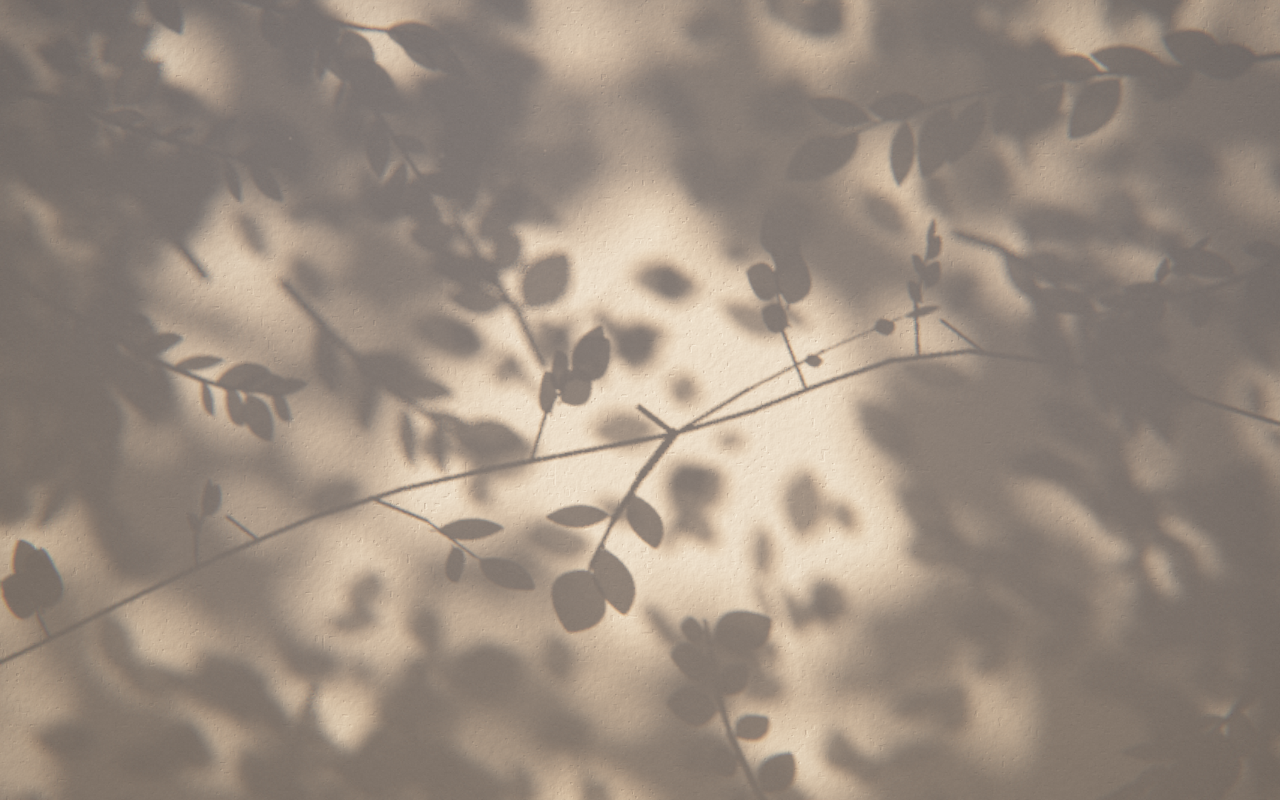
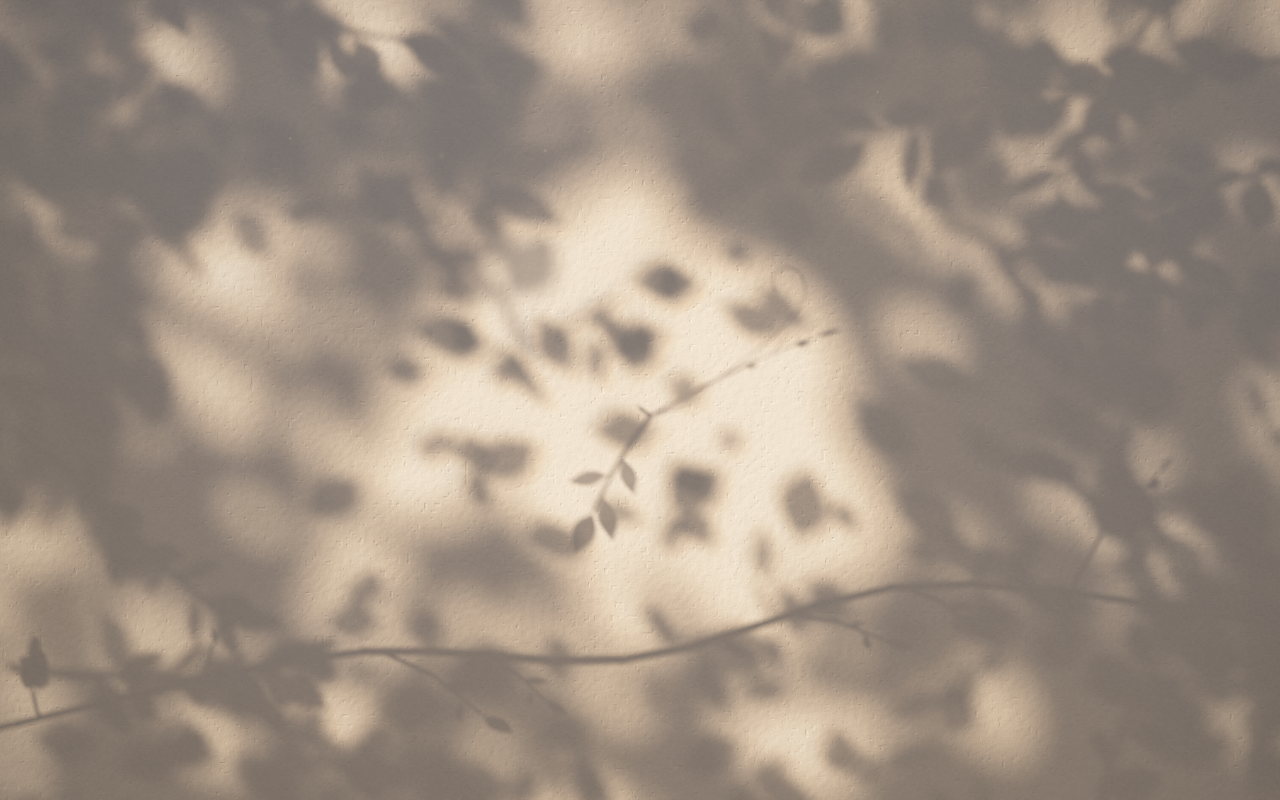
Komorebi Clock: final visual review fixes
From the third Codex/Fable round: the hour hand's leaves face the wall
squarely so they stay broad under a low sun; the near-wall layer uses a
fixed 16-tap pattern so the moving tendril doesn't sparkle; an open curl
and a slightly wider tendril; the vine a little lower so the minute hand's
tip never meets it; fringes visible again on the soft canopy light with red
to the outside; decoy leaves scaled with the clock; a slimmer wall stem.
Docs and store screenshots updated.

diff --git a/komorebi/extension/newtab.js b/komorebi/extension/newtab.js
@@ -309,11 +309,10 @@ float nearVis(){
   vec2 p = (gl_FragCoord.xy - uViewC.xy) / uViewC.z;
   vec2 uv = (p - uRectN.xy) * uRectN.zw;
   mat2 E = mat2(uSunN.xy * uSunN.z, vec2(-uSunN.y, uSunN.x));
-  float rot = hash12(gl_FragCoord.xy * .913) * 6.2832;
   vec2 sc = uRectN.zw;
-  float hd = 0.;
-  for (int i = 0; i < 10; i++) hd += texture2D(uNear, uv + E * ntap(float(i), 10., rot) * uRadN.x * sc).r;
-  return 1. - hd / 10.;
+  float hd = 0.;             /* a fixed tap pattern: thin moving lines don't sparkle across a per-pixel noise */
+  for (int i = 0; i < 16; i++) hd += texture2D(uNear, uv + E * ntap(float(i), 16., .7) * uRadN.x * sc).r;
+  return 1. - hd / 16.;
 }
 void main(){
   vec2 uv = gl_FragCoord.xy / uRes;
@@ -321,10 +320,10 @@ void main(){
 
   /* light splits a little at its edges: red one way, blue the other (along the light, and outward like a lens) */
   vec2 ca = fromC * uFx.z + uFx.xy;
-  float Sr = texture2D(uLight, uv + ca).r * 2.;
+  float Sr = texture2D(uLight, uv - ca).r * 2.;   /* red lands outward */
   vec3  Lg = texture2D(uLight, uv).rgb;
   float Sg = Lg.r * 2.;
-  float Sb = texture2D(uLight, uv - ca).r * 2.;
+  float Sb = texture2D(uLight, uv + ca).r * 2.;
   /* the split belongs to bright light: where it is dim the channels come back together */
   float fw = smoothstep(.5, 1., max(max(Sr, Sg), Sb));
   vec3 S = min(mix(vec3(Sg), vec3(Sr, Sg, Sb), fw), 1.45) * Lg.g * nearVis();   /* g: the branches' clean shadows */
@@ -998,7 +997,7 @@ let VINE = null;
 function buildVine() {
   const r = mulberry(909);
   /* the vine passes well below the clock, beyond the reach of the hour hand */
-  const pts = [[-halfW - 0.08, -0.40], [-halfW * 0.5, -0.31], [PIVOT.x - 0.04, PIVOT.y - 0.26], [halfW * 0.42, -0.21], [halfW + 0.08, -0.29]];
+  const pts = [[-halfW - 0.08, -0.40], [-halfW * 0.5, -0.31], [PIVOT.x - 0.04, PIVOT.y - 0.30], [halfW * 0.42, -0.21], [halfW + 0.08, -0.29]];
   let uk = 0.5, best = 1e9;
   for (let i = 0; i <= 400; i++) {
     const q = catmull(pts, i / 400), d = Math.hypot(q[0] - PIVOT.x + 0.02, q[1] - PIVOT.y);
@@ -1042,7 +1041,7 @@ function emitVine(t) {
       const s = 0.35 + 0.65 * (k + 1) / tw.nl;
       const p = [b[0] + (e[0] - b[0]) * s, b[1] + (e[1] - b[1]) * s, b[2] + 0.012 * s];
       const side = k === tw.nl - 1 ? 0 : (k % 2 ? 1 : -1) * tw.side;
-      const ll = (tw.big ? 0.052 : 0.040) * (0.85 + 0.3 * ((k * 0.37 + tw.ph) % 1));   /* smaller than the hour hand's leaves */
+      const ll = (tw.big ? 0.036 : 0.028) * (0.85 + 0.3 * ((k * 0.37 + tw.ph) % 1));   /* smaller than the hour hand's leaves */
       emitLeaf3D(p, a + side * 0.72 + fl * 0.12 * sn1(t * 1.25 + tw.ph + k), 0.25 * (side || 0.6), ll, tw.big ? 1.1 : 0.85,
                  0.3 * (side || 1) + fl * 0.55 * sn1(t * (0.55 + 0.08 * k) + tw.ph * 1.7), 0.96, tw.ph * 0.173 + k * 0.29);
     }
@@ -1057,14 +1056,14 @@ function emitTendril(frac, len, t, px) {
   for (let i = 0; i < straight; i++) {
     const f = (i + 1) / straight, w = len * (0.07 * Math.sin(f * 3.1) + 0.02 * Math.sin(f * 6.5 + 1.3));
     const q = [PIVOT.x + dx * L0 * (i + 1) + nx * w, PIVOT.y + dy * L0 * (i + 1) + ny * w, Z0 + 0.018 * f];
-    emitSeg(p, q, Math.max(0.0012 - 0.0003 * f, 0.9 * px), 1); p = q;
+    emitSeg(p, q, Math.max(0.0012 - 0.0003 * f, 1.0 * px), 1); p = q;
   }
   /* the curl: short steps turning ever tighter */
   let a = Math.atan2(dy, dx), step = len * 0.05;
-  for (let i = 0; i < 20; i++) {
-    a += 0.18 + 0.03 * i; step *= 0.94;
+  for (let i = 0; i < 16; i++) {
+    a += 0.16 + 0.016 * i; step *= 0.955;      /* an open curl, not a tight knot */
     const q = [p[0] + Math.cos(a) * step, p[1] + Math.sin(a) * step, p[2] + 0.001];
-    emitSeg(p, q, Math.max(0.0009, 0.8 * px), 1); p = q;
+    emitSeg(p, q, Math.max(0.0009, 0.9 * px), 1); p = q;
   }
 }
 
@@ -1172,7 +1171,9 @@ function handFracs() {
   const sec = d.getSeconds() + d.getMilliseconds() / 1000;      /* the tendril always follows the real seconds */
   return { h: ((hh % 12) + mm / 60 + ss / 3600) / 12, m: (mm + ss / 60) / 60, s: sec / 60 };
 }
-function emitHand(frac, len, bend, lift, th0, th1, leaves, t, sway, seed, scale) {
+function emitHand(frac, len, bend, lift, th0, th1, leaves, t, sway, seed, scale, flat) {
+  /* flat: how squarely the leaves face the wall (the hour hand's broad leaves must read as broad at any sun) */
+  const tilt = flat ? 0.12 : 0.28, turn = flat ? 0.12 : 0.35, flutterTurn = flat ? 0.3 : 0.55;
   const th = frac * Math.PI * 2 + sway;
   const dx = Math.sin(th), dy = Math.cos(th), nx = dy, ny = -dx;     /* 12 o'clock is up, clockwise */
   const K = [PIVOT.x, PIVOT.y, Z0];
@@ -1188,13 +1189,13 @@ function emitHand(frac, len, bend, lift, th0, th1, leaves, t, sway, seed, scale)
     const ll = ll0 * scale, base = at(sAt), T = tan(sAt), ph = seed + i * 7.31;
     let a = Math.atan2(T[1], T[0]) + side * off;
     a += fl * (0.14 * sn1(t * (1.1 + i * 0.21) + ph) + 0.04 * sn1(t * 1.9 + ph * 2.3));
-    const tz = 0.28 * (side || 0.6) + 0.1 * sn1(t * 0.4 + ph);      /* tips lean off the wall, or toward it */
+    const tz = tilt * (side || 0.6) + 0.1 * sn1(t * 0.4 + ph);      /* tips lean off the wall, or toward it */
     let Ld = [Math.cos(a), Math.sin(a), tz];
     const n0 = Math.hypot(Ld[0], Ld[1], Ld[2]); Ld = Ld.map(x => x / n0);
     /* the blade faces the wall, turned about its midrib by the breeze */
     let nr = [-Ld[2] * Ld[0], -Ld[2] * Ld[1], 1 - Ld[2] * Ld[2]];
     const nn = Math.hypot(nr[0], nr[1], nr[2]) || 1; nr = nr.map(x => x / nn);
-    nr = rotAbout(nr, Ld, 0.35 * (side || 1) + fl * 0.55 * sn1(t * (0.6 + i * 0.13) + ph * 1.7) + 0.2 * sn1(t * 0.2 + ph));
+    nr = rotAbout(nr, Ld, turn * (side || 1) + fl * flutterTurn * sn1(t * (0.6 + i * 0.13) + ph * 1.7) + 0.2 * sn1(t * 0.2 + ph));
     const Wd = [Ld[1] * nr[2] - Ld[2] * nr[1], Ld[2] * nr[0] - Ld[0] * nr[2], Ld[0] * nr[1] - Ld[1] * nr[0]];
     const hw = ll * 0.30 * wf;
     emitLeaf(base, Ld.map(x => x * ll * 1.1), Wd.map(x => x * hw), 0.96, 0.22 + 0.01 * i);   /* a shape with a pointed tip */
@@ -1318,9 +1319,9 @@ function frame(now) {
   const Rh = R * 0.7;                          /* the sprig is smaller than the clearing it sits in */
   const fr = handFracs();
   const sw = wind.mid.x * 1.1 + 0.6 * wind.far.x;
-  emitHand(fr.h, Rh * 0.62, 0.05, 0.010, 0.0040, 0.0026, HOUR_LEAVES, wt, sw * 0.8, 3.1, Rh / 0.31);
+  emitHand(fr.h, Rh * 0.62, 0.05, 0.010, 0.0040, 0.0026, HOUR_LEAVES, wt, sw * 0.8, 3.1, Rh / 0.31, true);
   emitHand(fr.m, Rh, -0.035, 0.016, 0.0026, 0.0012, MIN_LEAVES, wt, sw, 11.7, Rh / 0.31);
-  emitSeg([PIVOT.x, PIVOT.y, 0], [PIVOT.x, PIVOT.y, Z0], 0.0038, 1);    /* the short stem: its shadow is only a small knot */
+  emitSeg([PIVOT.x, PIVOT.y, 0], [PIVOT.x, PIVOT.y, Z0], 0.0025, 1);    /* the short stem: its shadow is only a small knot */
   emitTendril(fr.s, Rh * 1.12, wt, (0.5 - yBot) / H);
   emitVine(wt);
   const handQ = nearQ;
@@ -1431,7 +1432,7 @@ function frame(now) {
   gl.uniform2f(C.u('uCloud2'), T.depth, T.lag);
   gl.uniform2f(C.u('uRelD'), sd[0], sd[1]);
   const fs = smooth(0.45, 0.95, L.si) * 0.9 + 0.1;   /* moonlight hardly splits */
-  gl.uniform4f(C.u('uFx'), sd[0] * 0.0016 * fs, sd[1] * 0.0016 * fs * W / H, 0.002 * fs, 0.22);
+  gl.uniform4f(C.u('uFx'), sd[0] * 0.0016 * fs, sd[1] * 0.0016 * fs * W / H, 0.005 * fs, 0.22);
   const fpx = (0.5 - yBot) / H;                  /* one device pixel, in wall units */
   gl.activeTexture(gl.TEXTURE2); gl.bindTexture(gl.TEXTURE_2D, nearT.tex);
   gl.uniform1i(C.u('uNear'), 2);

diff --git a/komorebi/README.md b/komorebi/README.md
@@ -2,7 +2,7 @@
 
 A Chrome extension that replaces the new tab page with sunlight falling through leaves onto a plaster wall. It is a clock without numerals: the time is told by the shadow of a sprig.
 
-Everything on the wall is a shadow of something in front of it, cast by a sun that moves with the local hour. A far canopy (5 to 9 m from the wall) is an almost closed roof of leaves; the light through its gaps lands as soft, round pinhole images of the sun. A nearer layer of leaves (1.5 to 3 m) casts blurred leaf shapes, and a dozen branches reach in from the edges or hang farther out. A vine climbs across the wall a few centimetres out from it, held by small stems; from one of its nodes a short twig with broad leaves points at the hour and a long slender one at the minute. The vine's other side twigs look much the same, so the time hides among them until you look for it. The holdfast at that node casts a little gnomon that turns with the sun. The farther something is from the wall, the softer its shadow, because the sun is a disc rather than a point. Each minute the shadow of a small cloud passes over. The light follows the local hour: pink-orange at dawn, warm white in the morning, bright and neutral at noon, golden with long ellipses in the late afternoon, deep orange at dusk, and cool blue moonlight at night.
+Everything on the wall is a shadow of something in front of it, cast by a sun that moves with the local hour. A far canopy (5 to 9 m from the wall) is an almost closed roof of leaves; the light through its gaps lands as soft, round pinhole images of the sun. A nearer layer of leaves (1.5 to 3 m) casts blurred leaf shapes, and a dozen branches hang between 0.9 and 3 m from the wall, so their shadows are soft. A vine climbs across the lower part of the wall a few centimetres out. In the clearing above it, a small sprig held to the wall by a short stem tells the time: a short twig with broad, pointed leaves is the hour hand, a long slender one with narrow willow leaves is the minute hand, and the thinnest tendril, curling at its tip, sweeps the seconds. The vine's side twigs look much like them, so the time hides among them until you look for it. The farther something is from the wall, the softer its shadow, because the sun is a disc rather than a point; a slight lens defocus softens everything a little more, and the brightest edges of the dappled light split faintly into colour. Each minute the shadow of a small cloud passes over. The light follows the local hour: pink-orange at dawn, warm white in the morning, bright and neutral at noon, golden with long ellipses in the late afternoon, deep orange at dusk, and cool blue moonlight at night.
 
 ![screenshot](store/screenshot_1280x800_a.png)
 

diff --git a/README.md b/README.md
@@ -5,7 +5,7 @@ Clocks for the Chrome new tab page. Each folder is a separate Manifest V3 extens
 | Clock | What it is |
 |---|---|
 | [kinetic/](kinetic/) | Kinetic Clock: the time assembled from small sprung tiles that land exactly on the second. |
-| [komorebi/](komorebi/) | Komorebi Clock: tree shadows on a wall, cast by the sun of the hour; two twigs of a vine, hidden among the branches, tell the time. |
+| [komorebi/](komorebi/) | Komorebi Clock: soft tree shadows on a wall, cast by the sun of the hour; a small sprig hidden among them tells the time. |
 
 ![Kinetic Clock](kinetic/store/screenshot_1280x800_a.png)
 
